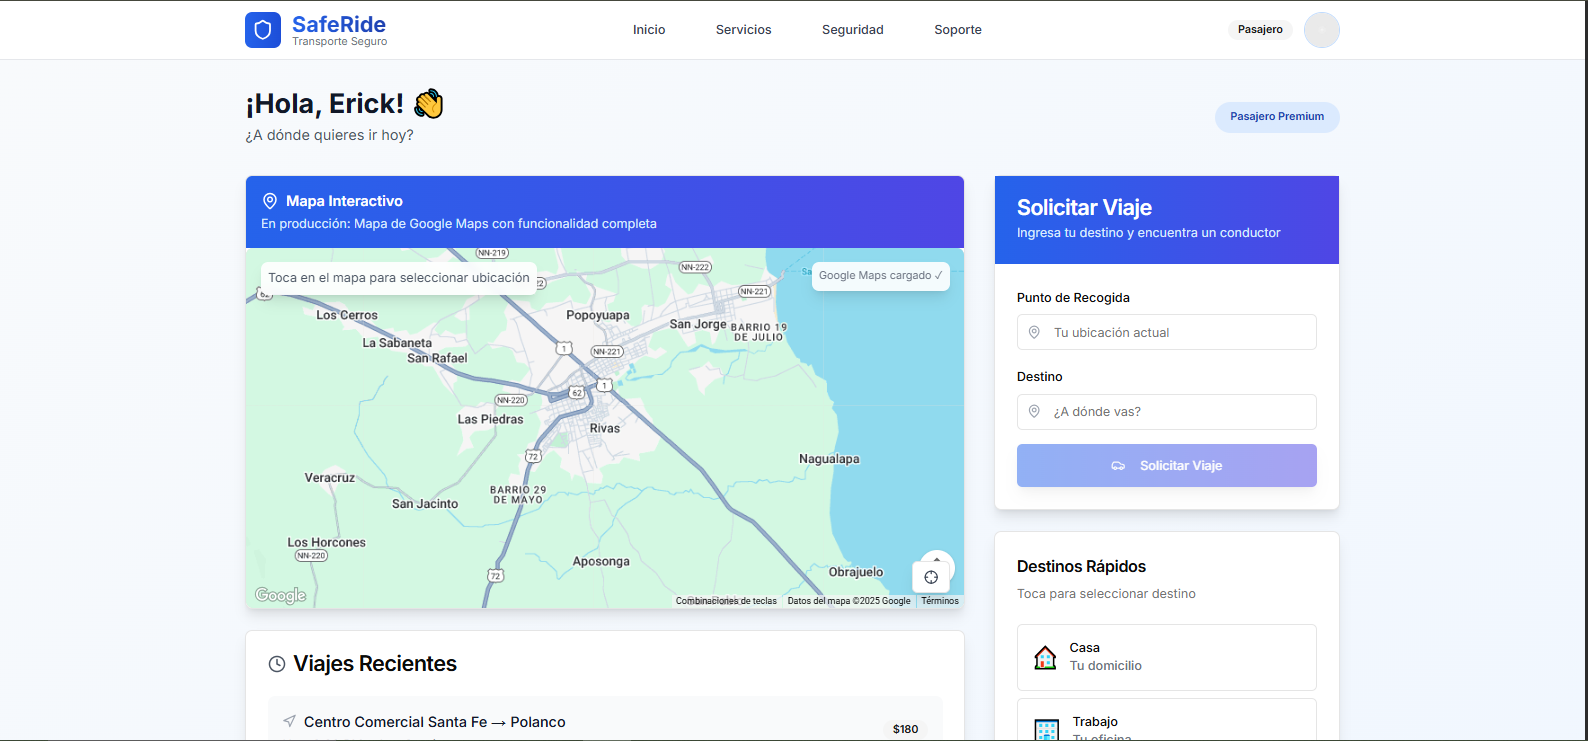
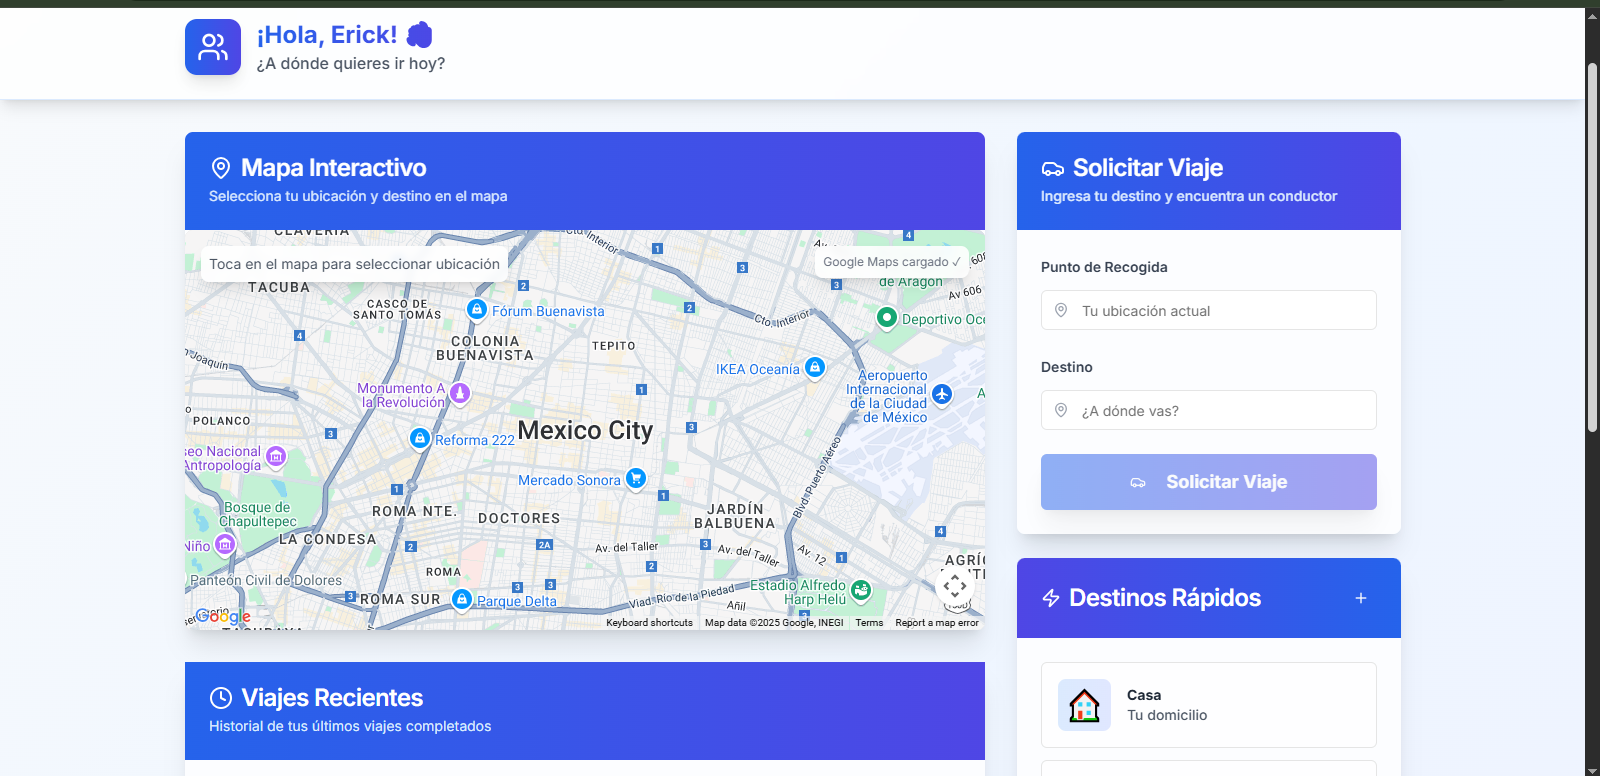
New Updates

diff --git a/README.md b/README.md
@@ -117,3 +117,6 @@ This project is licensed under the [MIT](https://opensource.org/licenses/MIT). (
 
 # Dashboard-driver
 ![pass](./utils/screenshots/driverdash.png)  
+
+# Dashboard-driver-request
+![pass](./utils/screenshots/driverdash2.png)  
